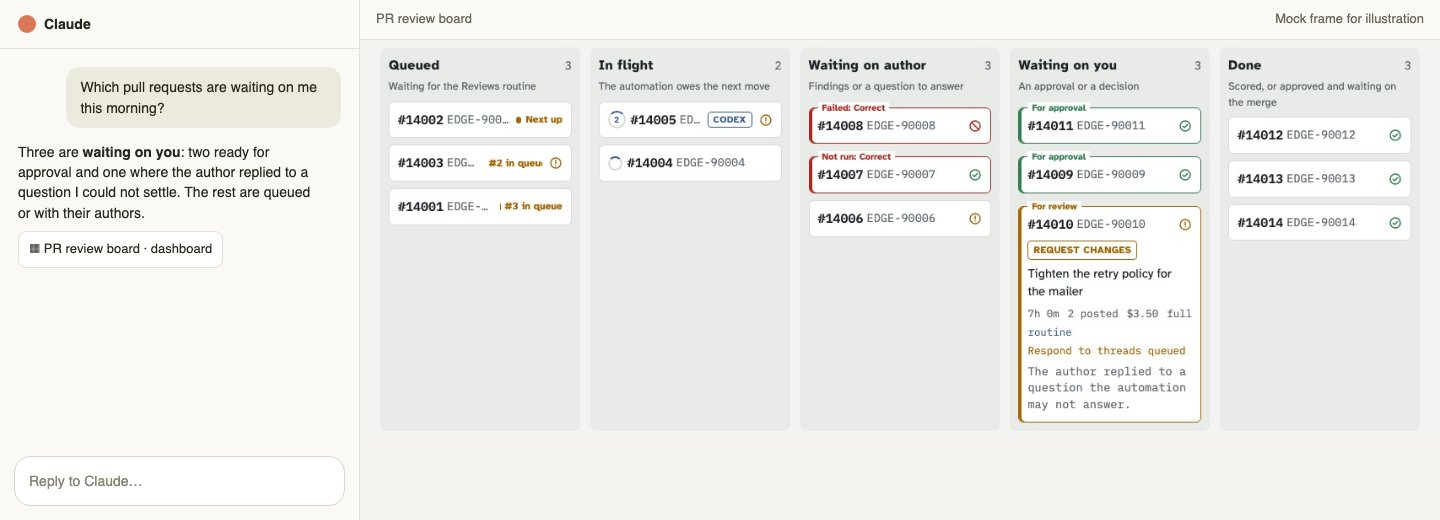
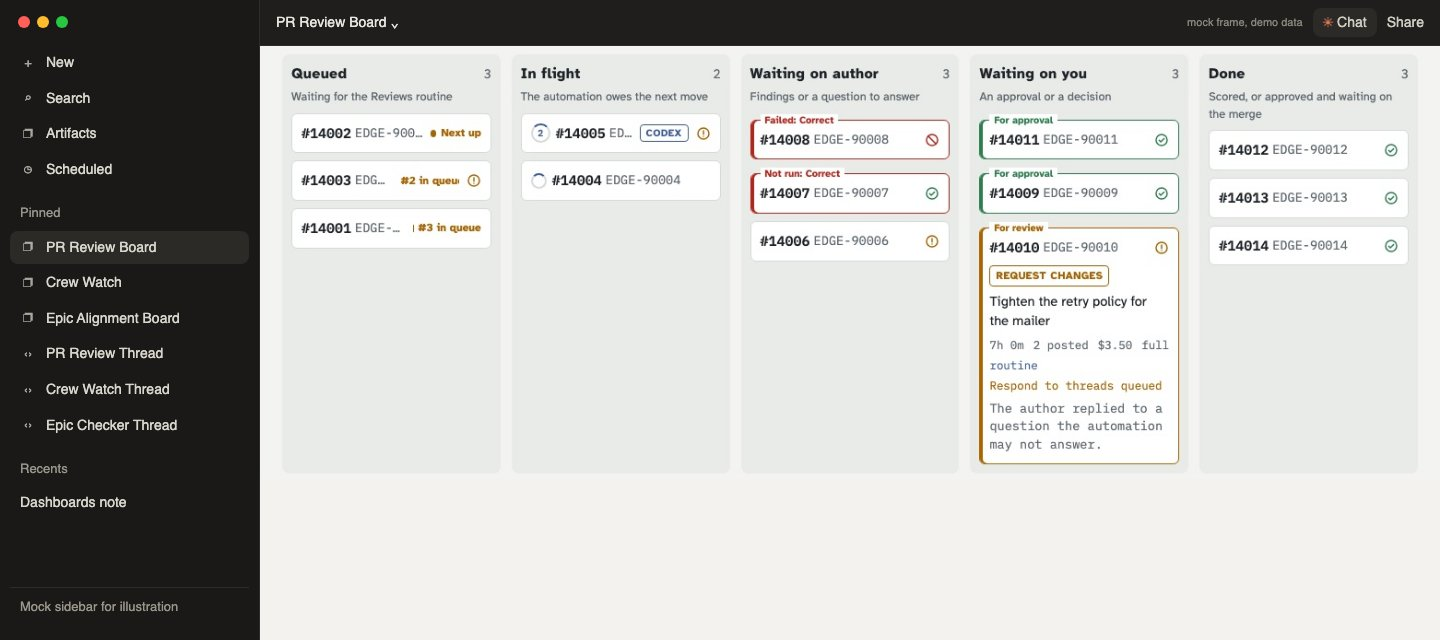
Frame the dashboard shots in a mock of the Claude app sidebar
The earlier frame showed a chat panel. The sidebar with pinned dashboards and their threads is
what the note means by a Claude dashboard, so both shots now use that, with generic labels and
no company names.

diff --git a/content/notes/show-them-the-board.md b/content/notes/show-them-the-board.md
@@ -55,9 +55,9 @@ are moving the right way. I still run the reviews. I just get to look at them li
 of reading log files like a raccoon going through a bin.
 
 <figure class="shot">
-  <img class="shot__img" src="/media/review-kit/board-in-claude.jpg" width="1440" height="520" loading="lazy" data-lightbox
-       alt="The review board as a Claude dashboard, beside a mock Claude chat. The chat asks which pull requests are waiting on me, and the board shows five columns: queued, in flight, waiting on author, waiting on you, and done, holding demo pull requests.">
-  <figcaption class="shot__cap">The board from the kit's demo, with made-up pull requests, inside a mock of the Claude window it lives in. The chat beside it is mocked for this note; the point is that the conversation never goes away, I just get a board next to it.</figcaption>
+  <img class="shot__img" src="/media/review-kit/board-in-claude.jpg" width="1440" height="640" loading="lazy" data-lightbox
+       alt="The review board open as a Claude dashboard, with a mock of the Claude sidebar beside it pinning the review board, Crew Watch, the epic board and a chat thread for each. The board shows five columns: queued, in flight, waiting on author, waiting on you, and done, holding demo pull requests.">
+  <figcaption class="shot__cap">The board from the kit's demo, with made-up pull requests, inside a mock of the Claude app it lives in. The sidebar is mocked for this note, and it is close to mine: each dashboard is pinned next to the chat thread that builds and runs it, so the board and the conversation are always one click apart.</figcaption>
 </figure>
 
 <figure class="shot">
@@ -179,8 +179,8 @@ two disagreed before anyone saw a wrong figure in a one-on-one.
 
 <figure class="shot">
   <img class="shot__img" src="/media/crew/crew-watch-in-claude.jpg" width="1440" height="860" loading="lazy" data-lightbox
-       alt="Crew Watch as a Claude dashboard beside a mock Claude chat, filled with invented people and tickets.">
-  <figcaption class="shot__cap">Crew Watch, refilled with invented people and tickets for this note, inside the same mock Claude window. The real one looks the same, with my team in it.</figcaption>
+       alt="Crew Watch open as a Claude dashboard in a mock of the Claude sidebar, filled with invented people and tickets: fourteen things that need me, from overdue one-on-ones to blocked tickets.">
+  <figcaption class="shot__cap">Crew Watch, refilled with invented people and tickets for this note, inside the same mock Claude sidebar. The real one looks the same, with my team in it.</figcaption>
 </figure>
 
 ## Then I showed them
